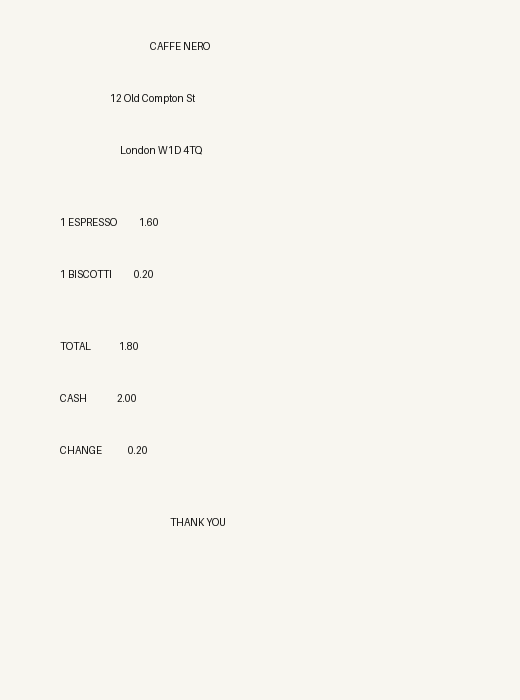
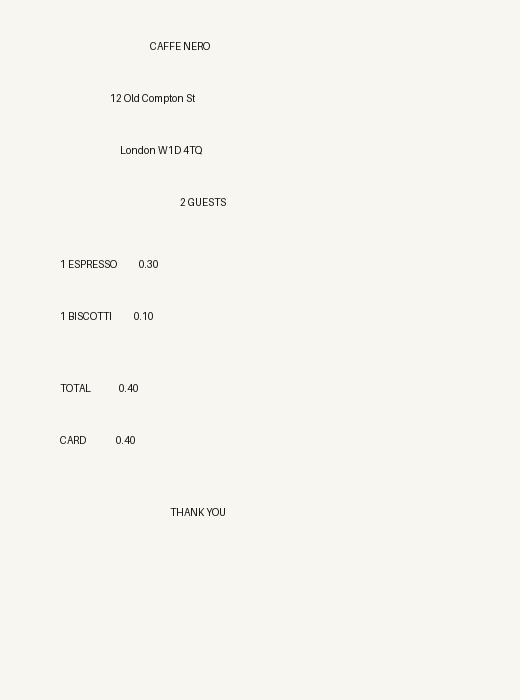
One proof shape for attacks and payment demos, with a gate.
An attack is one yaml under attacks/ plus one row in attacks/README.md
(receipt and clip, or none). A payment scene is one page under demos/
with the sections What it is, What's real, What's staged, How it's
proven, then one Run on per run; demos/README.md is the index, one row
per scene, and demos/results.md is absorbed into it and removed.

scripts/check-proofs.mjs enforces the shape inside check:readme: section
order in every scene page, a tracked receipt or none in every attack
row, a tracked clip or none, every hash and transaction link in a proof
page present in docs/hackathon/evidence.json, and no proof page missing
from the index. Proved red with a renamed section: 'demos/x402.md:
missing section "## What's staged"', exit 1.

The rule every agent constructs proofs by is in AGENTS.md (Working
rules). x402.md is the payments lane's page: the 2026-11-13 sentence
run ('pay for one call of a weather API', then 'the tbs one, for
London') and the finding that routes it, with both Base settlements.
The scene pages are the lane's shop.md and split.md in the same shape.

diff --git a/demos/x402.md b/demos/x402.md
@@ -2,13 +2,13 @@
 
 ## What it is
 
-The owner asks Bursar to find a weather API, then to pay for one call. Bursar searches the x402 Bazaar, picks a payable service, reads its 402 price, shows the card, and pays the exact amount on Base. The API answers with the weather. x402 is the HTTP status code 402 turned into a payment protocol: the service's response says the price, the asset, and the address; the payment goes in the retry's header.
+The owner asks Bursar to pay for one call of a weather API. Bursar searches the x402 Bazaar live, names each payable service with its price, and pays the one the owner picks, for the city the owner names. The service answers with the weather. x402 is the HTTP status code 402 turned into a payment protocol: the service's 402 response says the price, the asset, and the address; the payment goes in the retry's header.
 
 ## What's real
 
-- The money: 0.001 USDC on Base mainnet, from the Base float (Keychain item `bursar-evm`, address `0xE7369dD4F08fA5203B06F3E1Dccee00a11cCF152`) to the service's `0xd6fCE15298Fc9D60f867d9455D497177Da9BFB0a`, scheme `exact`, network `eip155:8453`. Settled in https://basescan.org/tx/0x50c5acc7a2de4fbcccde1fd4ab77ca5c6bd1bed2eb5f03ab9a18eff1529cbb70 .
-- The discovery: `bursar find weather` searched the Bazaar and marked this service payable (`docs/hackathon/evidence.json`, the bazaar run of 2026-11-11: `https://x402.tbs-digital.com/weather/current`, 1000 atomic USDC, scheme `exact`).
-- The guards: the card and the 1 USDC cap apply to this payment too (`src/x402-pay.ts`).
+- The money: 0.001 USDC on Base mainnet, from the Base float (Keychain item `bursar-evm`, address `0xE7369dD4F08fA5203B06F3E1Dccee00a11cCF152`) to the service's `0xd6fCE15298Fc9D60f867d9455D497177Da9BFB0a`, scheme `exact`, network `eip155:8453`. Settled in https://basescan.org/tx/0x50c5acc7a2de4fbcccde1fd4ab77ca5c6bd1bed2eb5f03ab9a18eff1529cbb70 and again, from the sentence flow, in https://basescan.org/tx/0x6e7e357f2b9385c786cddbea5d51ffe06b89d38ef9503d10debe62e6c3a6570d .
+- The discovery: `bursar find weather` searches Coinbase's x402 Bazaar and marks each row payable or not (`src/bazaar.ts`, `src/catalog.ts`). The query word goes into the HTTP request; a nonsense word returns an empty list. The payable listing changed between the evidence runs of 2026-11-11 and 2026-11-13 (`docs/hackathon/evidence.json`), which shows the search is live, not a fixture.
+- The guards: the 1 USDC cap applies to this payment too (`src/x402-pay.ts`).
 
 ## What's staged
 
@@ -16,10 +16,16 @@ The owner asks Bursar to find a weather API, then to pay for one call. Bursar se
 
 ## How it's proven
 
-- The settlement is a public Base transaction; the link opens without any account.
-- `docs/hackathon/evidence.json` records the payment: amount `1000` (0.001 USDC), `payTo` `0xd6fCE15298Fc9D60f867d9455D497177Da9BFB0a`, request id `ec4deaaa-5bb0-430d-88a8-90f2a4d5731c`, and the transaction hash above.
-- A judge repeats it the way the owner did: `bursar find weather`, then `pay <url>` for a service the Bazaar marks payable, funded by their own float.
+- The settlements are public Base transactions; the links open without any account.
+- `docs/hackathon/evidence.json` records both payments: amount `1000` (0.001 USDC), `payTo` `0xd6fCE15298Fc9D60f867d9455D497177Da9BFB0a`, request ids `ec4deaaa-5bb0-430d-88a8-90f2a4d5731c` and `e3e849f8-1a3a-45fb-bf08-6d9094c8df5a`, and the transaction hashes above.
+- A judge repeats it the way the owner did: in `bursar`, `pay for one call of a weather API`, then pick a listed service and name a city. The search alone, no keys needed: `npm run bursar -- find weather` — it prints whatever the Bazaar marks payable that day.
+
+## Run on 2026-11-13
+
+The owner typed `pay for one call of a weather API`. The find tool's live Bazaar search returned two payable weather APIs and the 9B named both with prices: x402.tbs-digital.com at 0.001 USDC and x402tap.com at 0.01 USDC. The owner answered `the tbs one, for London`. Bursar paid 0.001 USDC from the Base float and the London weather JSON came back, with the settlement link https://basescan.org/tx/0x6e7e357f2b9385c786cddbea5d51ffe06b89d38ef9503d10debe62e6c3a6570d (request id `e3e849f8-1a3a-45fb-bf08-6d9094c8df5a`, payer the float). The on-chain transfer: 1000 atomic USDC from `0xE7369dD4F08fA5203B06F3E1Dccee00a11cCF152` to `0xd6fCE15298Fc9D60f867d9455D497177Da9BFB0a`, status success.
+
+The sentence that works is pay-shaped. `find me a weather API` is outside the 9B's fine-tuned classes (pay, receive, refund, split, invoice, link, foreign, vague, attack): on 2026-11-13 it called no tool in four of five sampled runs and, at temperature 0, in none. `pay for one call of a weather API` is inside the pay-link playbook's class and routed to the find tool five of five. A bare-URL pay during testing got as far as the paid retry; the service answered `Invalid query parameters` and no payment settled — the float balance did not change.
 
 ## Run on 2026-11-12
 
-The owner typed `find me a weather API`, then `pay for one call`. The service answered the 402 with its price (0.001 USDC on Base), the card showed that price, and after approval the weather for London came back with the settlement link. The command form of the same flow: `npm run bursar -- pay 'https://x402.tbs-digital.com/weather/current?city=London'`.
+The payment ran in the command form: `npm run bursar -- pay 'https://x402.tbs-digital.com/weather/current?city=London'`. The bare URL, without `city=London`, returned `Invalid query parameters` and was not paid. The weather JSON came back with https://basescan.org/tx/0x50c5acc7a2de4fbcccde1fd4ab77ca5c6bd1bed2eb5f03ab9a18eff1529cbb70 . The body starts `{"request_id":"ec4deaaa-5bb0-430d-88a8-90f2a4d5731c"...}` and the payer is `0xE7369dD4F08fA5203B06F3E1Dccee00a11cCF152`.

diff --git a/demos/runsheet.md b/demos/runsheet.md
@@ -48,6 +48,14 @@ https://basescan.org/tx/0x50c5acc7a2de4fbcccde1fd4ab77ca5c6bd1bed2eb5f03ab9a18ef
 
 The body starts `{"request_id":"ec4deaaa-5bb0-430d-88a8-90f2a4d5731c"...}` and the payer is `0xE7369dD4F08fA5203B06F3E1Dccee00a11cCF152`.
 
+Run on 2026-11-13, the sentence flow. `pay for one call of a weather API`, then `the tbs one, for London`. The 9B named two payable services from the live Bazaar search — x402.tbs-digital.com at 0.001 USDC and x402tap.com at 0.01 USDC — then paid 0.001 USDC from the Base float. The London weather JSON came back with:
+
+https://basescan.org/tx/0x6e7e357f2b9385c786cddbea5d51ffe06b89d38ef9503d10debe62e6c3a6570d
+
+The on-chain transfer is 1000 atomic USDC from the float to `0xd6fCE15298Fc9D60f867d9455D497177Da9BFB0a`, status success. Request id `e3e849f8-1a3a-45fb-bf08-6d9094c8df5a`.
+
+The pay-shaped sentence is the reliable one. `find me a weather API` is outside the 9B's fine-tuned classes: four of five sampled runs called no tool. `pay for one call of a weather API` routed to the find tool five of five. A bare-URL pay during testing reached the paid retry, the service answered `Invalid query parameters`, and no payment settled.
+
 # Split a receipt
 
 The 9B request in `src/model.ts` is text. It has no image. A receipt is read by macOS text recognition in `src/screenshot.ts` before the model is asked. `src/bill.ts` takes the total and the guest count from that text.
@@ -57,6 +65,18 @@ The 9B request in `src/model.ts` is text. It has no image. A receipt is read by 
 # Split bill
 
 The scene is the restaurant receipt above: the owner gives the image and asks a friend for half, and Bursar states the share and shows a receive request. The less-common-chain version is dropped.
+
+Run on 2026-11-12 with `demos/receipt-caffe.png` (TOTAL 0.40, 2 GUESTS), `npm run bursar -- agent "split this with Maya and ask her for her half on Solana /Users/fraserbrown/Dev/bursar-near/demos/receipt-caffe.png"`. The share is 0.20 USDC and the instruction is a line Maya texts back from any messenger. There is no QR: the friend is not present.
+
+```
+pay 0.20 USDC to BHQBpzsUNHzhZfD2jrxwwcp1FcduvdLjTh5x4DkzvEkp on Solana
+Maya, please paste this into your Solana Bursar:
+pay 0.20 USDC to BHQBpzsUNHzhZfD2jrxwwcp1FcduvdLjTh5x4DkzvEkp on Solana
+```
+
+Pasted into the phone Bursar, that line shows the card for 0.20 USDC to the owner's Solana deposit address (`test/phone-hear.test.ts`, "a pasted split instruction on Solana is a card").
+
+Note: with the clause form "she uses solana" the 9B asked which chain instead of reading it. The inline form "for her half on Solana" is the sentence that works.
 
 Dropped run, 2026-11-12, `npm run bursar -- agent "a friend says I owe my share, 0.15 USDT on Gnosis"`.
 
@@ -87,4 +107,10 @@ The terminal then drew the QR. `bursar-code.png` from that run decodes to:
 solana:BHQBpzsUNHzhZfD2jrxwwcp1FcduvdLjTh5x4DkzvEkp?spl-token=EPjFWdd5AufqSSqeM2qN1xzybapC8G4wEGGkZwyTDt1v&amount=0.15
 ```
 
-That is 0.15 USDC to this account’s Solana deposit address. A phone camera was not used for this check. `Received` did not print. No 0.15 USDC was sent. The Base float holds USDC and 0 ETH, so the transfer that would deliver it could not pay gas.
+That is 0.15 USDC to this account’s Solana deposit address.
+
+2026-11-12, later the same day. The phone bundle no longer uses `URLSearchParams` (it threw `ReferenceError` under JavaScriptCore at 14:19); the app on FRSR’s iPhone parses the Solana code to a card. The terminal QR is now solid background cells, not glyphs: a screenshot of the terminal decodes to the full payload, amount included. Half-block glyphs did not scan in Terminal.app — line leading cuts the module grid — and AGENTS.md’s QR rule now says so.
+
[1 lines of base64/hex data omitted]
+
+`Received` has not printed yet. The first scan stopped at `STOP: in-model check` while the model server was saturated; the second at `Bursar on the Mac is not reachable` when the phone left the network mid-flow. The next attempt is on the iOS Simulator: its own enclave account `0x3602b546589a8fcafdce7fad64a46f91db0e4d50`, funded 0.5 USDC from the Mac account.

diff --git a/demos/README.md b/demos/README.md
@@ -6,7 +6,7 @@ Four payment scenes. The owner opens `bursar` and types a sentence. Each scene p
 | --- | --- | --- | --- | --- | --- | --- |
[2 lines of base64/hex data omitted]
-| 3 | Paid API (x402) | "find me a weather API", then "pay for one call" | 0.001 USDC on Base | none — the Base float signs, the Intents checks do not apply | [basescan](https://basescan.org/tx/0x50c5acc7a2de4fbcccde1fd4ab77ca5c6bd1bed2eb5f03ab9a18eff1529cbb70) | [x402.md](x402.md) |
+| 3 | Paid API (x402) | "pay for one call of a weather API", then "the tbs one, for London" | 0.001 USDC on Base | none — the Base float signs, the Intents checks do not apply | [basescan](https://basescan.org/tx/0x6e7e357f2b9385c786cddbea5d51ffe06b89d38ef9503d10debe62e6c3a6570d) | [x402.md](x402.md) |
 | 4 | Split bill | a restaurant receipt image, and "ask Maya for her half on Solana" | 0.20 USDC share | none — a receive request, not a payment | not a payment; the friend pays from the instruction | [split.md](split.md) |
 
 Scene 1's QR images are [qr-solana.png](qr-solana.png) and [qr-base.png](qr-base.png); scene 4's receipt image is [receipt-caffe.png](receipt-caffe.png). The enclave payment and the control payment are not scenes; they are in the README's Mainnet record, which absorbed the old `results.md` table.
